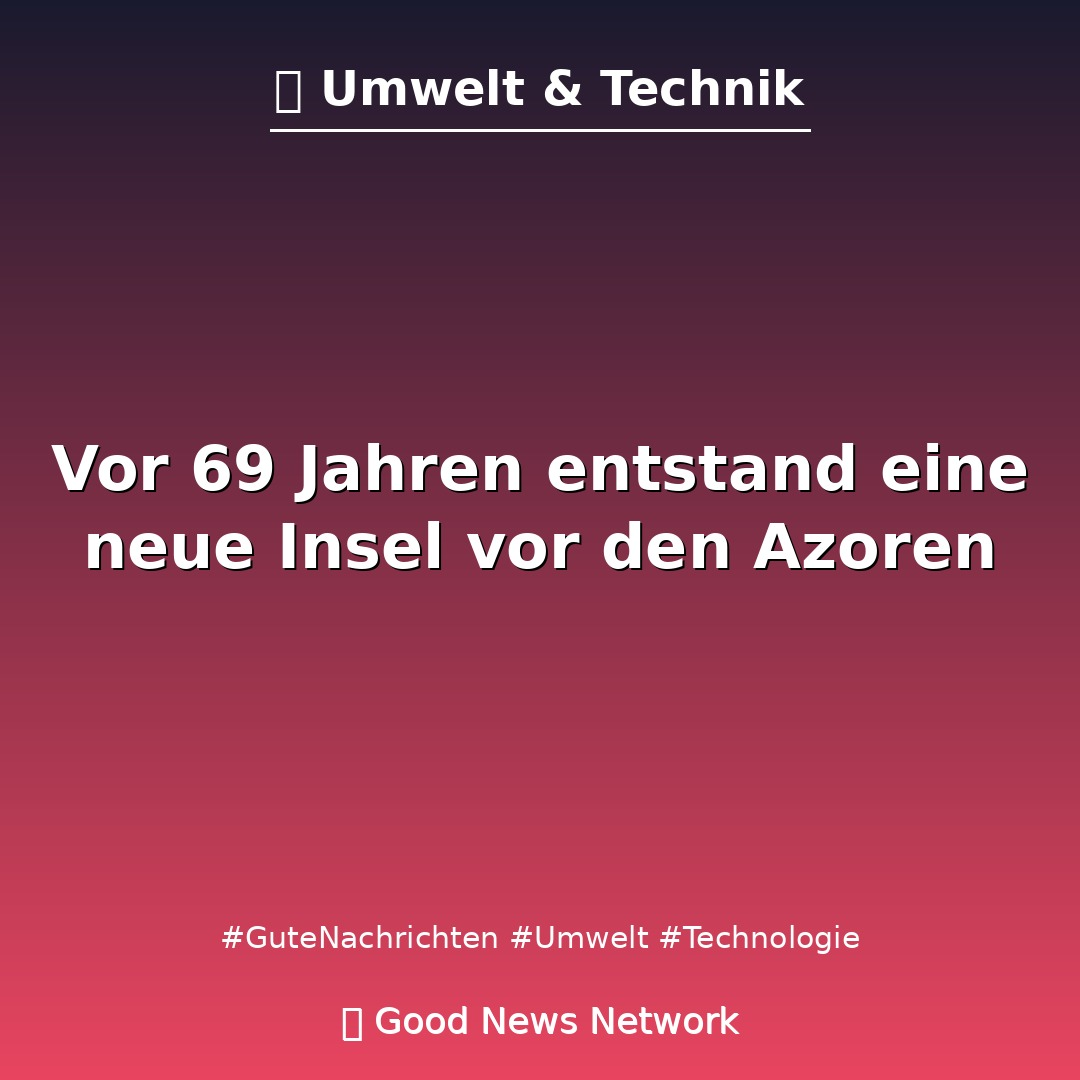
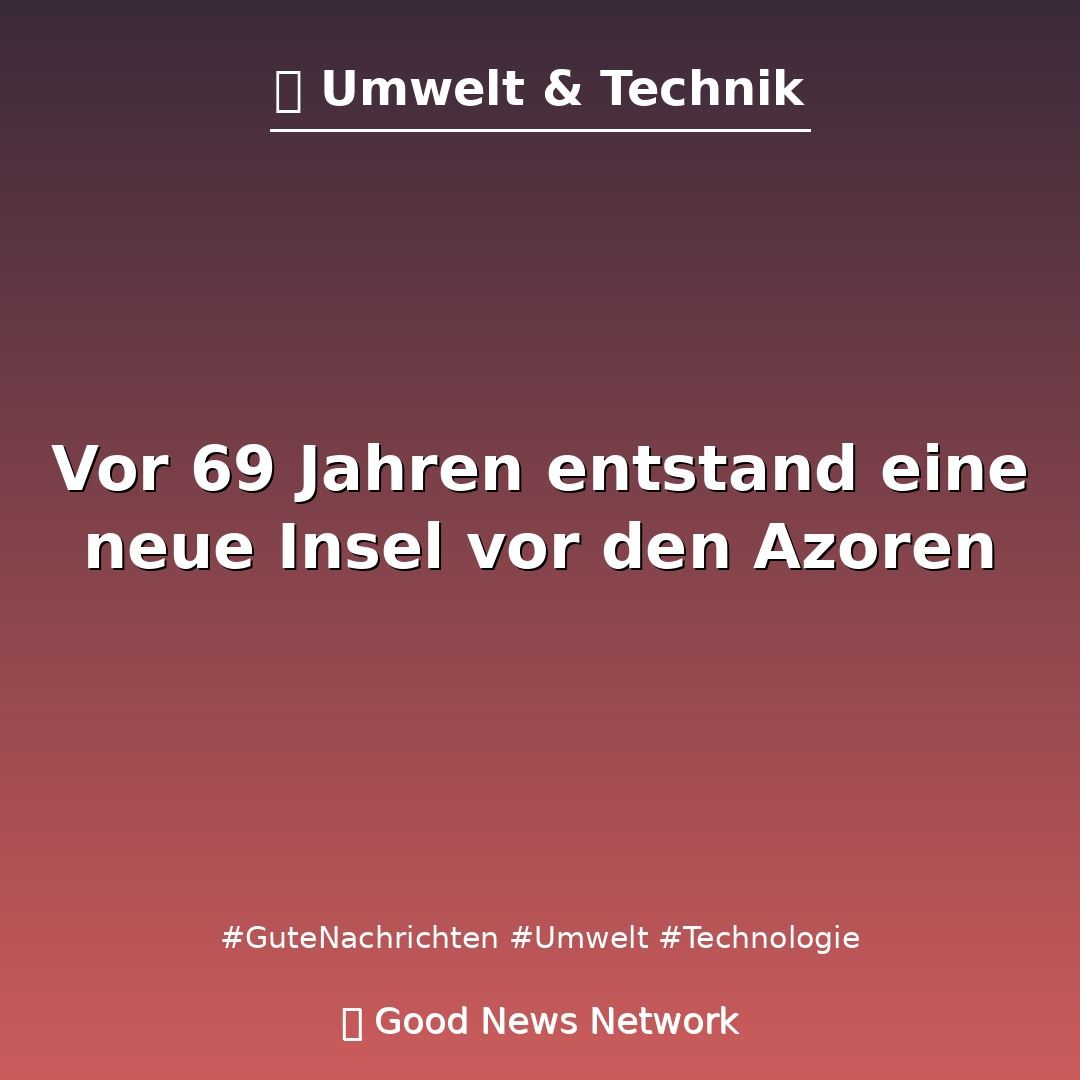
📝 Synchronisiere deutschen Posttext

Changed region(s): [[0.0, 0.0, 1.0, 0.1528], [0.0, 0.9167, 1.0, 1.0], [0.2139, 0.8556, 0.7944, 0.8861]]

diff --git a/content/posts/2026-10-02-vor-69-jahren-entstand-eine-neue-insel-vor-den-azoren/index.md b/content/posts/2026-10-02-vor-69-jahren-entstand-eine-neue-insel-vor-den-azoren/index.md
@@ -22,5 +22,3 @@ Besonders spannend ist die Verbindung von Naturgefahr und Forschung. Geologen ko
 Capelinhos erinnert außerdem an die Widerstandskraft der Menschen. Nach der Katastrophe bauten viele Bewohner ihre Gemeinden wieder auf.
 
 Die Geschichte zeigt: Natur kann zerstören und zugleich neue Landschaft schaffen. Aus Asche entstand vor Faial ein sichtbares Archiv der Erdgeschichte.
-
-🔗 Quelle: https://www.goodnewsnetwork.org/events061002/
